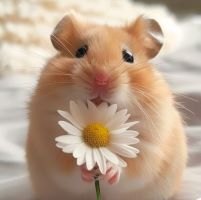
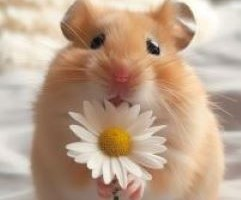
Images resized. Cronometer reset() implemented. Application shows  the elapsed time at the end of the game.

diff --git a/src/memoriamain/Memoria.java b/src/memoriamain/Memoria.java
@@ -2,6 +2,7 @@
 package memoriamain;
 
 import java.awt.BorderLayout;
+import java.awt.Dimension;
 //import java.awt.Container;
 import java.awt.GridLayout;
 import java.awt.event.ActionEvent;
@@ -16,6 +17,7 @@ import javax.swing.JLabel;
 import javax.swing.JOptionPane;
 import javax.swing.JPanel;
 import javax.swing.JTextArea;
+import javax.swing.SwingConstants;
 
 /**
  *
@@ -26,6 +28,7 @@ public class Memoria extends JFrame implements ActionListener {
     private JLabel labelTop;
     private List<Integer> randomList;
     private JButton buttons[];
+    private JButton startGameButton;
     private JPanel panel;
     private ImageIcon unrevealed, top;
     private ImageIcon icones[];
@@ -39,7 +42,6 @@ public class Memoria extends JFrame implements ActionListener {
     private int hits=0;
     private int errors=0;
     private GameTimer timer;
-    private JLabel timerJLabel;
     
     Memoria(int mode){
         super("Jogo da Memoria!");
@@ -87,8 +89,9 @@ public class Memoria extends JFrame implements ActionListener {
     private void playerHit(){
         hits++;
         if(hits==cardAmount/2){
-            //timer.stopTimer();
-            JOptionPane.showMessageDialog( null, "Você ganhou! Parabéns!");
+            timer.stopTimer();
+            JOptionPane.showMessageDialog( null, "Você ganhou! Parabéns! \n"+timer.getElapsedTime().getText());
+            
         }
         else {
             text.setText(gameInfo()+"\nPARABÉNS! ACERTOU!");
@@ -139,13 +142,19 @@ public class Memoria extends JFrame implements ActionListener {
         buttons = new JButton[cardAmount];
         for(int i=0; i<buttons.length; i++){
             buttons[i] = new JButton(""+i, unrevealed);
-            panel.add(buttons[i]);
+            //buttons[i].setHorizontalTextPosition(SwingConstants.CENTER);
+            //buttons[i].setVerticalTextPosition(SwingConstants.CENTER);
+            buttons[i].setActionCommand(""+i);
+            buttons[i].setText(null);
+            buttons[i].setContentAreaFilled(false);
+            buttons[i].setBorderPainted(true);
             buttons[i].addActionListener(this);
+            panel.add(buttons[i]);
+            
         }
     }
 
     private void loadMode(int mode){
-        int cardAmount;
         unrevealed = new ImageIcon(getClass().getResource("img/cartela.jpg"));
         text = new JTextArea();
         /*timer = new GameTimer();
@@ -157,24 +166,14 @@ public class Memoria extends JFrame implements ActionListener {
         text.setEditable(false);
         labelTop = new JLabel();
         labelTop.setIcon(top);
+        startGameButton = new JButton();
+        startGameButton.setText("Jogar");
         //container = getContentPane();
         panel = new JPanel();
         switch(mode){
             case 1:
             {
-                cardAmount = 20;
-                randomList = new ArrayList<>(cardAmount);
-                randomize(cardAmount);
-                imageIconInicialize(cardAmount,"img/");
-                top = new ImageIcon (getClass().getResource("img/top.png"));
-                initUnrevealedCards(cardAmount);
-                timer = new GameTimer();
-                timer.startTimer();
-                panel.setLayout(new GridLayout(4,5,5,5));
-                add(labelTop, BorderLayout.PAGE_START);
-                add(text, BorderLayout.LINE_START);
-                add(timer.getElapsedTime(), BorderLayout.AFTER_LAST_LINE);
-                add(panel, BorderLayout.CENTER);
+                loadMode1();
             }
 
             break;
@@ -182,6 +181,24 @@ public class Memoria extends JFrame implements ActionListener {
         }
         
        
+    }
+
+    public void loadMode1(){
+        cardAmount = 20;
+        randomList = new ArrayList<>(cardAmount);
+        randomize(cardAmount);
+        imageIconInicialize(cardAmount,"img/");
+        top = new ImageIcon (getClass().getResource("img/top.png"));
+        labelTop.setIcon(top);
+        initUnrevealedCards(cardAmount);
+        timer = new GameTimer();
+        timer.startTimer();
+        panel.setLayout(new GridLayout(4,5, 2, 2));
+        add(labelTop, BorderLayout.PAGE_START);
+        add(startGameButton, BorderLayout.BEFORE_LINE_BEGINS);
+        add(text, BorderLayout.LINE_START);
+        add(timer.getElapsedTime(), BorderLayout.AFTER_LAST_LINE);
+        add(panel, BorderLayout.CENTER);
     }
     
 }

diff --git a/src/memoriamain/MemoriaMain.java b/src/memoriamain/MemoriaMain.java
@@ -21,17 +21,7 @@ public class MemoriaMain {
         Memoria m;
         m = new Memoria(1);
         m.setDefaultCloseOperation(JFrame.EXIT_ON_CLOSE);
-        m.setSize(1170,720);
+        m.setExtendedState(JFrame.MAXIMIZED_BOTH);
         m.setVisible(true);
-        
-     
-        
-        
-             
-                
-             
-        
-        //Apresentar na tela o resultado  
-        // TODO code application logic here
     }
 }

diff --git a/src/memoriamain/GameTimer.java b/src/memoriamain/GameTimer.java
@@ -38,6 +38,13 @@ public class GameTimer {
         time.stop();
     }
 
+    public void resetTimer(){
+        time.stop();
+        secondsElapsed = 0;
+    }
+
+
+
     public JLabel getElapsedTime(){
         return elapsedTime;
     }
